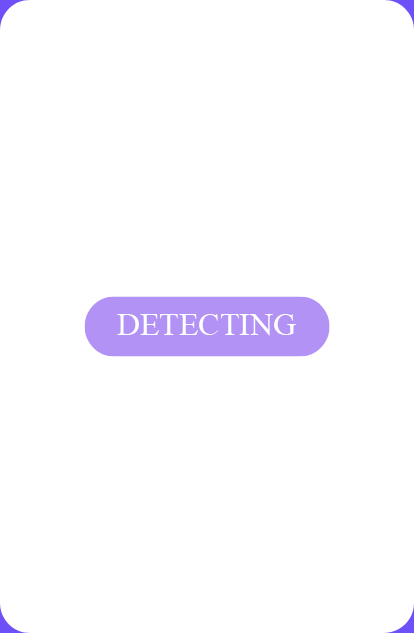
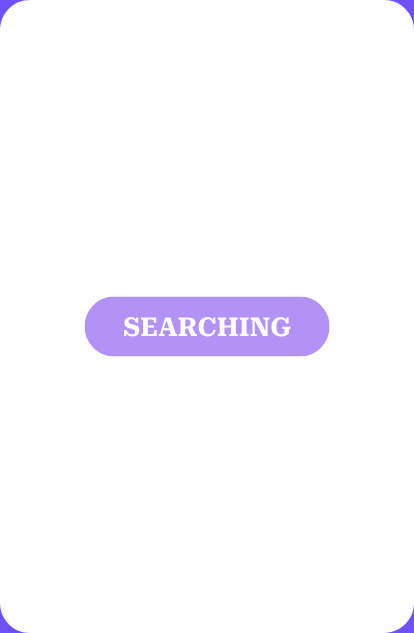
add attendance logic and final commit of 1st part

Changed region(s): [[0.2899, 0.4803, 0.7246, 0.5403]]

diff --git a/face.py b/face.py
@@ -55,6 +55,7 @@ file.close()
 encodeListKnown, studentIds = encodeListKnownWithIds
 print("Encode File loaded successfully")
 
+mark_attendance_delay = 30*60 # (in seconds)
 
 modeType = 0
 counter = 0
@@ -97,7 +98,7 @@ while True:
                 # print(studentIds[matchIndex])
                 y1, x2, y2, x1 = faceLoc
                 y1, x2, y2, x1 = y1 * 4, x2 * 4, y2 * 4, x1 * 4
-                bbox = (55 + x1, 162 + y1, x2 - x1, y2 - y1)
+                bbox = (65 + x1, 190 + y1, x2 - x1, y2 - y1)
                 cvzone.cornerRect(imgBackground, bbox, rt=0)
                 id = studentIds[matchIndex]
                 if counter == 0:
@@ -114,20 +115,56 @@ while True:
                 array = np.frombuffer(blob.download_as_string(), np.uint8)
                 imgStudent = cv2.imdecode(array, cv2.COLOR_BGRA2BGR)
 
+                # Update data of attendance
+                datetimeObject = datetime.strptime(studentInfo['last_attendance_time'], "%Y-%m-%d %H:%M:%S")
+                secondsElapsed = (datetime.now() - datetimeObject).total_seconds()
+                # print(secondsElapsed)
 
-            cv2.putText(imgBackground, str(studentInfo['total_attendance']), (861,125), cv2.FONT_HERSHEY_COMPLEX, 1 ,(255,255,255), 1)
-            cv2.putText(imgBackground, str(studentInfo['branch']), (1026,552), cv2.FONT_HERSHEY_COMPLEX, 0.8 ,(255,255,255), 1)
-            cv2.putText(imgBackground, str(id), (1025,496), cv2.FONT_HERSHEY_COMPLEX, 0.8 ,(255,255,255), 1)
-            cv2.putText(imgBackground, str(studentInfo['class']), (910,625), cv2.FONT_HERSHEY_COMPLEX, 0.6 ,(100,100,100), 1)
-            cv2.putText(imgBackground, str(studentInfo['year']), (1025,625), cv2.FONT_HERSHEY_COMPLEX, 0.6 ,(100,100,100), 1)
-            cv2.putText(imgBackground, str(studentInfo['starting_year']), (1125,625), cv2.FONT_HERSHEY_COMPLEX, 0.6 ,(100,100,100), 1)
-            (w, h), _ = cv2.getTextSize(studentInfo['name'], cv2.FONT_HERSHEY_COMPLEX, 1, 1)
-            offset = (414 - w) // 2
-            cv2.putText(imgBackground, str(studentInfo['name']), (808 + offset, 445), cv2.FONT_HERSHEY_COMPLEX, 1, (50, 50, 50),
-                        1)
+                if secondsElapsed > mark_attendance_delay:
+                    ref = db.reference(f'Students/{id}')
+                    studentInfo['total_attendance'] += 1
+                    ref.child('total_attendance').set(studentInfo['total_attendance'])
+                    ref.child('last_attendance_time').set(datetime.now().strftime('%Y-%m-%d %H:%M:%S'))
+                else:
+                    modeType = 3
+                    counter = 0
+                    imgBackground[44:44 + 633, 808:808 + 414] = imgModeList[modeType]
 
-            imgBackground[175:175 + 216, 909:909 + 216] = imgStudent
-            counter += 1
+            if modeType != 3:
+
+                if 10 < counter < 20:
+                    modeType = 2
+
+                imgBackground[44:44 + 633, 808:808 + 414] = imgModeList[modeType]
+
+                if counter <= 10:
+                    cv2.putText(imgBackground, str(studentInfo['total_attendance']), (861,125), cv2.FONT_HERSHEY_COMPLEX, 1 ,(255,255,255), 1)
+                    cv2.putText(imgBackground, str(studentInfo['branch']), (1026,552), cv2.FONT_HERSHEY_COMPLEX, 0.8 ,(255,255,255), 1)
+                    cv2.putText(imgBackground, str(id), (1025,496), cv2.FONT_HERSHEY_COMPLEX, 0.8 ,(255,255,255), 1)
+                    cv2.putText(imgBackground, str(studentInfo['class']), (910,625), cv2.FONT_HERSHEY_COMPLEX, 0.6 ,(100,100,100), 1)
+                    cv2.putText(imgBackground, str(studentInfo['year']), (1025,625), cv2.FONT_HERSHEY_COMPLEX, 0.6 ,(100,100,100), 1)
+                    cv2.putText(imgBackground, str(studentInfo['starting_year']), (1125,625), cv2.FONT_HERSHEY_COMPLEX, 0.6 ,(100,100,100), 1)
+                    (w, h), _ = cv2.getTextSize(studentInfo['name'], cv2.FONT_HERSHEY_COMPLEX, 1, 1)
+                    offset = (414 - w) // 2
+                    cv2.putText(imgBackground, str(studentInfo['name']), (808 + offset, 445), cv2.FONT_HERSHEY_COMPLEX, 1, (50, 50, 50),
+                                1)
+
+                    imgBackground[175:175 + 216, 909:909 + 216] = imgStudent
+
+                counter += 1
+
+                if counter >= 20:
+                    counter = 0
+                    modeType = 0
+                    counter = 0
+                    modeType = 0
+                    studentInfo = []
+                    imgStudent = []
+                    imgBackground[44:44 + 633, 808:808 + 414] = imgModeList[modeType]
+    else:
+        modeType = 0
+        counter = 0
+
 
     cv2.imshow('frame', imgBackground)
     if cv2.waitKey(1) & 0xFF == ord('q'):
